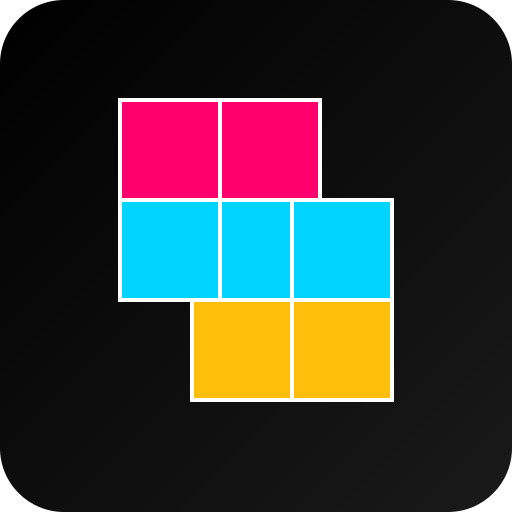
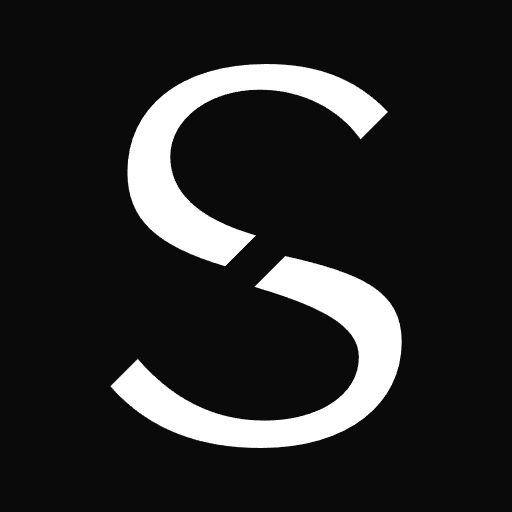
feat(brand): unify StyleKit identity and documentation entry points

diff --git a/components/layout/footer.tsx b/components/layout/footer.tsx
@@ -6,6 +6,7 @@ import { useI18n } from "@/lib/i18n/context";
 import type { TranslationKey } from "@/lib/i18n/translations";
 import { NewsletterSignup } from "@/components/newsletter/newsletter-signup";
 import { localizeHref } from "@/lib/i18n/routing";
+import { StyleKitLogo } from "@/components/brand/stylekit-logo";
 
 const currentYear = new Date().getFullYear();
 
@@ -86,7 +87,7 @@ export function Footer({ compact = false }: { compact?: boolean }) {
       <div className="mx-auto max-w-7xl px-4 py-7 md:hidden">
         <div className="flex items-start justify-between gap-4">
           <div className="min-w-0">
-            <p className="masthead text-lg text-white">StyleKit</p>
+            <StyleKitLogo inverse className="h-8 w-auto" />
             <p className="mt-2 max-w-[18rem] text-xs leading-relaxed text-zinc-400">
               {t("footer.tagline")}
             </p>
@@ -258,7 +259,7 @@ export function Footer({ compact = false }: { compact?: boolean }) {
         {/* Editorial grid */}
         <div className="grid border-b border-white/10 md:grid-cols-12">
           <div className="py-8 md:col-span-4 md:py-12 md:pr-10">
-            <p className="masthead text-lg text-white">StyleKit</p>
+            <StyleKitLogo inverse className="h-9 w-auto" />
             <p className="mt-6 font-serif text-[1.45rem] italic leading-[1.45] text-zinc-200 md:text-[1.6rem]">
               {t("footer.tagline")}
             </p>

diff --git a/lib/i18n/__tests__/docs-metadata.test.ts b/lib/i18n/__tests__/docs-metadata.test.ts
@@ -1,0 +1,27 @@
+import { describe, expect, it, vi } from "vitest";
+import { generateMetadata } from "@/app/[locale]/docs/page";
+
+vi.mock("@/app/docs/page", () => ({ default: () => null }));
+
+describe("docs route metadata", () => {
+  it("publishes the English route with its own canonical and language alternates", async () => {
+    const metadata = await generateMetadata({ params: Promise.resolve({ locale: "en" }) });
+
+    expect(metadata.title).toBe("Documentation");
+    expect(metadata.description).toContain("design tokens");
+    expect(metadata.alternates?.canonical).toMatch(/\/en\/docs$/);
+    expect(metadata.alternates?.languages).toMatchObject({
+      en: expect.stringMatching(/\/en\/docs$/),
+      "zh-CN": expect.stringMatching(/\/zh\/docs$/),
+    });
+  });
+
+  it("publishes Chinese text and canonical metadata on the Chinese route", async () => {
+    const metadata = await generateMetadata({ params: Promise.resolve({ locale: "zh" }) });
+
+    expect(metadata.title).toContain("文档");
+    expect(metadata.description).toContain("设计令牌");
+    expect(metadata.alternates?.canonical).toMatch(/\/zh\/docs$/);
+    expect(metadata.openGraph).toMatchObject({ locale: "zh_CN" });
+  });
+});

diff --git a/app/login/_content.tsx b/app/login/_content.tsx
@@ -31,6 +31,7 @@ import {
 import { sanitizeNextPath } from "@/lib/auth/next-path";
 import { LinuxDoMark, NodeLocMark } from "@/components/auth/brand-marks";
 import { XiaoheiLoading } from "@/components/profile/xiaohei-note";
+import { StyleKitLogo } from "@/components/brand/stylekit-logo";
 import typography from "./login-typography.module.css";
 
 const loginDisplay = Playfair_Display({
@@ -601,14 +602,7 @@ export function LoginContent() {
         {/* PLACEHOLDER_FORM_INNER */}
         <div className="mb-5 animate-[home-reveal-up-strong_650ms_ease-out_both]">
           <div className="mb-4 flex items-center justify-between">
-            <div className="inline-flex items-center gap-2.5">
-              <span className="flex h-8 w-8 items-center justify-center bg-foreground font-serif text-xs font-bold text-background shadow-[4px_4px_0_var(--accent)]">
-              SK
-              </span>
-              <span className={`${typography.brandName} text-muted`}>
-                StyleKit
-              </span>
-            </div>
+            <StyleKitLogo className="h-10 w-auto" />
             <span className={`${typography.caption} text-muted`}>
               {t("auth.secureAccess")}
             </span>

diff --git a/components/layout/header.tsx b/components/layout/header.tsx
@@ -20,6 +20,7 @@ import { GitHubStarButton } from "@/components/github-star-button";
 import { KitNavButton } from "@/components/kit/kit-nav-button";
 import { trackEvent } from "@/lib/analytics/events";
 import { localizeHref } from "@/lib/i18n/routing";
+import { StyleKitLogo } from "@/components/brand/stylekit-logo";
 
 const linkClass =
   "shrink-0 whitespace-nowrap text-sm tracking-wide text-muted hover:text-foreground transition-colors";
@@ -402,8 +403,12 @@ export function Header() {
       <div className="max-w-7xl mx-auto px-4 sm:px-6 md:px-12">
         <div className="flex items-center justify-between h-16 md:h-20">
           {/* Logo / Masthead */}
-          <Link href={localizeHref("/", locale)} prefetch={false} className="masthead text-lg md:text-xl">
-            StyleKit
+          <Link
+            href={localizeHref("/", locale)}
+            prefetch={false}
+            className="shrink-0 rounded-sm focus-visible:outline-2 focus-visible:outline-offset-4 focus-visible:outline-foreground"
+          >
+            <StyleKitLogo className="h-9 w-auto md:h-10" />
           </Link>
 
           {/* Desktop Navigation */}

diff --git a/app/guide/page.tsx b/app/guide/page.tsx
@@ -72,6 +72,21 @@ export default function GuidePage() {
                 </article>
               ))}
             </div>
+            <div className="mt-8 flex flex-col gap-3 border-t border-border pt-6 sm:flex-row sm:items-center sm:justify-between">
+              <div>
+                <p className="text-sm font-medium">{t("guide.docs.title")}</p>
+                <p className="mt-1 max-w-3xl text-sm leading-relaxed text-muted">
+                  {t("guide.docs.description")}
+                </p>
+              </div>
+              <LocalizedLink
+                href="/docs"
+                className="inline-flex shrink-0 items-center gap-2 text-sm hover:underline underline-offset-4"
+              >
+                {t("guide.docs.cta")}
+                <ArrowRight className="w-4 h-4" />
+              </LocalizedLink>
+            </div>
           </div>
         </section>
 

diff --git a/lib/i18n/__tests__/routing.test.ts b/lib/i18n/__tests__/routing.test.ts
@@ -93,9 +93,11 @@ describe("i18n routing helpers", () => {
     expect(getLocaleRouteStrategy("/guides/neumorphism")).toBe("rewrite");
     expect(getLocaleRouteStrategy("/templates/saas-landing")).toBe("rewrite");
     expect(getLocaleRouteStrategy("/liquid-glass")).toBe("filesystem");
+    expect(getLocaleRouteStrategy("/docs")).toBe("filesystem");
 
     expect(getIndexableLocalesForPath("/styles/neo-brutalist")).toEqual(LOCALES);
     expect(getIndexableLocalesForPath("/blog/example")).toEqual(["en"]);
+    expect(getIndexableLocalesForPath("/docs")).toEqual(LOCALES);
     expect(getIndexableLocalesForPath("/guides/neumorphism")).toEqual(["en"]);
     expect(getIndexableLocalesForPath("/login")).toEqual([]);
     expect(getIndexableLocalesForPath("/styles/neo-brutalist/showcase")).toEqual([]);

diff --git a/app/docs/layout.tsx b/app/docs/layout.tsx
@@ -1,12 +1,7 @@
 import SiteDocument, { generateSiteMetadata } from "@/components/layout/site-document";
 export { viewport } from "@/components/layout/site-document";
 import type { Metadata } from "next";
-
-const routeMetadata: Metadata = {
-  title: "Documentation",
-  description:
-    "StyleKit documentation covering getting started, style systems, exports, AI workflows, and implementation guidance.",
-};
+import { docsRouteMetadata } from "./metadata";
 
 export default function DocsLayout({
   children,
@@ -17,5 +12,5 @@ export default function DocsLayout({
 }
 
 export async function generateMetadata(): Promise<Metadata> {
-  return { ...await generateSiteMetadata(), ...routeMetadata };
+  return { ...await generateSiteMetadata(), ...docsRouteMetadata };
 }

diff --git a/app/docs/metadata.ts b/app/docs/metadata.ts
@@ -1,0 +1,19 @@
+import type { Metadata } from "next";
+import type { Locale } from "@/lib/i18n/translations";
+
+export const docsRouteMetadata: Metadata = {
+  title: "Documentation",
+  description:
+    "Reference for StyleKit visual styles, design tokens, component recipes, and AI coding tool integrations.",
+};
+
+export function getDocsRouteMetadata(locale: Locale): Metadata {
+  if (locale === "en") return docsRouteMetadata;
+
+  return {
+    ...docsRouteMetadata,
+    title: "文档：风格体系与 AI 工具接入",
+    description: "了解 StyleKit 的视觉与布局风格、设计令牌、组件 Recipe，以及在 AI 编码工具中的接入方式。",
+    keywords: ["StyleKit 文档", "设计令牌", "组件 Recipe", "AI 编码工具"],
+  };
+}

diff --git a/app/[locale]/docs/page.tsx b/app/[locale]/docs/page.tsx
@@ -1,0 +1,21 @@
+import type { Metadata } from "next";
+import Page from "@/app/docs/page";
+import { docsRouteMetadata, getDocsRouteMetadata } from "@/app/docs/metadata";
+import { isLocale } from "@/lib/i18n/routing";
+import { localizeMetadata } from "@/lib/i18n/metadata";
+
+export const dynamic = "force-static";
+export const revalidate = 3600;
+
+export async function generateMetadata({
+  params,
+}: {
+  params: Promise<{ locale: string }>;
+}): Promise<Metadata> {
+  const { locale } = await params;
+  if (!isLocale(locale)) return docsRouteMetadata;
+
+  return localizeMetadata(getDocsRouteMetadata(locale), locale, "/docs");
+}
+
+export default Page;

diff --git a/lib/i18n/translations-en.ts b/lib/i18n/translations-en.ts
@@ -1344,6 +1344,9 @@ export const en = {
     "guide.step3.title": "Copy Prompts & Rules",
     "guide.step3.desc": "Use the prompt pages, style rules, and component recipes as constraints for your editor or AI coding assistant.",
     "guide.step3.cta": "Open Prompts",
+    "guide.docs.title": "Detailed documentation",
+    "guide.docs.description": "For deeper reference on visual and layout styles, design tokens, component recipes, and AI tool integrations.",
+    "guide.docs.cta": "Read the docs",
     "styleDetail.notFound": "Style Not Found -- StyleKit",
     "styleDetail.backToCatalog": "Back to Catalog",
     "styleDetail.catalog": "Style Catalog",

diff --git a/lib/i18n/translations-zh.ts b/lib/i18n/translations-zh.ts
@@ -1109,6 +1109,9 @@ export const zh: { [K in keyof typeof en]: string } = {
   "guide.step3.title": "复制提示词与规则",
   "guide.step3.desc": "把提示词页面、风格规则和组件配方作为约束，放进你的编辑器或 AI 编码助手。",
   "guide.step3.cta": "打开提示词",
+  "guide.docs.title": "详细文档",
+  "guide.docs.description": "适合进一步了解视觉与布局风格、设计令牌、组件 Recipe 和 AI 工具接入。",
+  "guide.docs.cta": "查看文档",
   // Style detail page
   "styleDetail.notFound": "风格未找到 — StyleKit",
   "styleDetail.backToCatalog": "返回目录",

diff --git a/app/sitemap.ts b/app/sitemap.ts
@@ -125,6 +125,7 @@ export default async function sitemap(): Promise<MetadataRoute.Sitemap> {
     ...createLocalizedEntries("/developers", undefined, "monthly", 0.6),
     ...createLocalizedEntries("/mouse-interactions", undefined, "monthly", 0.6),
     ...createLocalizedEntries("/guide", undefined, "monthly", 0.6),
+    ...createLocalizedEntries("/docs", undefined, "monthly", 0.6),
     ...createLocalizedEntries("/components", undefined, "weekly", 0.6),
     ...createLocalizedEntries("/about", undefined, "monthly", 0.4),
     ...createLocalizedEntries("/contact", undefined, "monthly", 0.4),
